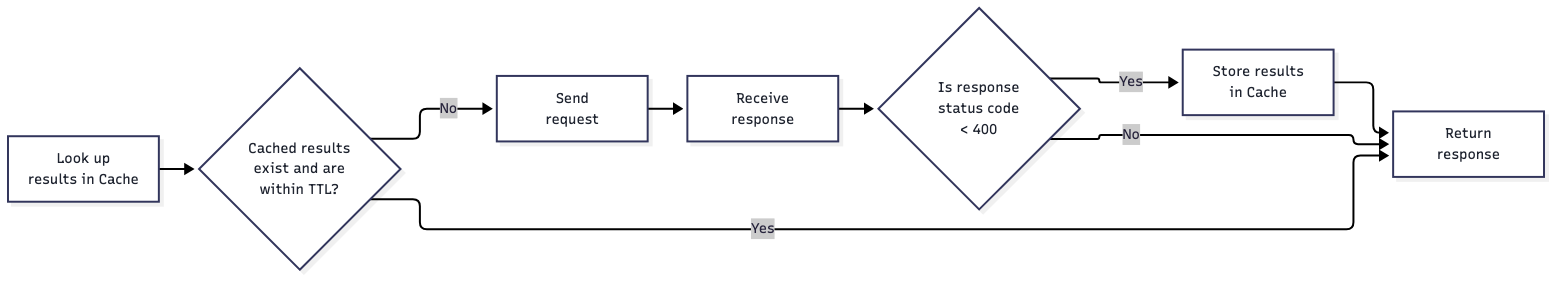
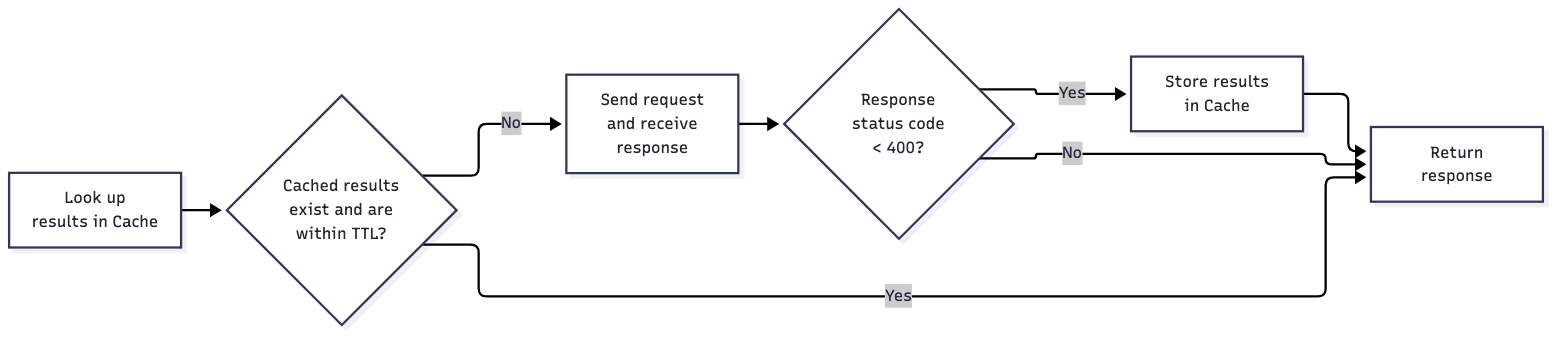
Spiros

diff --git a/docs/tex/chapters/ch4-implementation-evaluation.tex b/docs/tex/chapters/ch4-implementation-evaluation.tex
@@ -53,7 +53,8 @@ The backend communicates with the external data sources to gather information, a
 
 \subsubsection{Backend} \label{sec:backend-layers}
 
-\snote{The backend consists of services, ... described as follows.}
+The backend is structured in layers of data flow separation.
+The layers and components are introduced below. \snote{The backend consists of services, ... described as follows.} \enote{done}
 
 \snote{See also what I have changed.}
 
@@ -222,8 +223,7 @@ Figure~\ref{fig:database-er} shows the database tables and the relationships bet
 In the conceptual model, a publication is identified by its title, year and authors, and an author by name.
 The implementation uses the identifiers assigned by each provider: \textsf{pubId} and \textsf{authorId}.
 Names and titles can be ambiguous, and spelling differences do not necessarily mean that two records refer to different entities.
-All primary keys are composite and include the provider identifier.
-This is necessary to keep the data separate by provider.
+All primary keys are composite and include the provider identifier, to keep the data separate by provider.
 
 A \textsf{publication} record contains the title, year, citation count reported by the provider, and an external identifier, for instance a DOI, if available.
 An \textsf{author} record consists of the name and the affiliation, if available.
@@ -244,16 +244,14 @@ When an identifier is missing, the respective connector uses the normalized name
 \subsection{Storage and caching} \label{sec:storage-caching}
 
 \textsf{SQLite} was used in the system for the simplicity of its setup.
-It does not require a separate server, instead it runs within the backend process and stores the database in a single file.
-Schema changes also live in the codebase: they are defined as migrations and applied at runtime, every time the database is opened by the backend process.
+It does not require a separate server, instead the database file (it is a single file) is opened directly by the backend server process, all updates and changes are stored in it, and it is closed when the server shuts down and closes the database connection.
 
-The schema is only defined in code, in a single file describing every table.
-When the schema changes, the ORM compares it with the previous version and generates code representing the migration.
+The database schema is only defined in the code, in a single file describing every table, index, and column relationship.
+When the schema changes, the ORM compares it with the previous version and generates code representing the migration, as part of the backend build pipeline.
 A migration is a file with SQL statements needed to change the current database schema to the new schema.
-Migrations are kept in the codebase and are checked into the version control system.
+Migrations are kept in the codebase too, and are checked into the version control system.
 Every time the backend starts up and opens the database, it applies the migrations that have not been applied yet.
 Using this approach, the database schema always starts from the initial empty state, it then grows, and eventually evolves into the final version of the schema needed by the application.
-By keeping the database schema in the repository, the domain model changes can be associated with the current application model, to keep the models synchronized.
 
 The system largely depends on externally sourced data, subject to the provider limitations and the latency of network access.
 Publications, authors, contributions and citations are treated as immutable in nature.
@@ -276,11 +274,11 @@ The citation graph is decomposed and stored as separate entities in the tables
 The citation graph described in Section~\ref{sec:user-interface} represents the citations graph visually.
 
 After collecting the data, the backend saves the publications, authors and their relationships, from which the graph can be reconstructed without network requests to external providers.
-Classification labels depend on the choice of author (the same citation can be \textsf{direct} for one author and a \textsf{co-author self-citation} for another) and are calculated at runtime, when the graph is loaded. 
+Classification labels depend on the choice of author (the same citation can be \textsf{direct} for one author and a \textsf{co-author self-citation} for another) and are calculated at runtime, when the graph is loaded.
 Figure~\ref{fig:classification-example} shows the classification of the same citation for different authors, involved in either or both of the papers.
 
 As an example, let us consider the publications discussed in Chapter~\ref{c1:intro}.
-\scor{[KGMP2007]~\cite{Kalnis2007} by Kalnis, Ghinita, Mouratidis and Papadias cites [GPK2007]~\cite{Ghinita2007} by Ghinita, Kalnis and Skiadopoulos.}{Publication~\cite{Kalnis2007} by Kalnis, Ghinita, Mouratidis and Papadias cites  publication~\cite{Ghinita2007} by Ghinita, Kalnis and Skiadopoulos.}
+Publication~\cite{Kalnis2007} by Kalnis, Ghinita, Mouratidis and Papadias cites publication~\cite{Ghinita2007} by Ghinita, Kalnis and Skiadopoulos.
 
 
 The citation classification changes depending on who is the author under analysis.
@@ -295,7 +293,7 @@ As other authors of the cited paper also appear on the citing paper, the classif
     \label{fig:classification-example}
 \end{figure}
 
-Figure~\ref{fig:cache-flowchart-diagram} illustrates the data flow inside the cache mechanism. 
+Figure~\ref{fig:cache-flowchart-diagram} illustrates the data flow inside the cache mechanism.
 All provider connectors use the same HTTP client implementation, with caching handled internally.
 Before sending a request, the client looks for a stored response using the request URL as the key.
 The cache key enforces the order of the query parameters alphabetically, to provide a stable key, regardless of the parameter order in the original request URL.
@@ -304,8 +302,8 @@ Each cached record includes the date it was received, used to calculate when the
 
 \begin{figure}[tb]
     \centering
-    \includegraphics[scale=.3]{include/fig-cache-flowchart-diagram}
-    \caption{Cache request data flow}  
+    \includegraphics[scale=.27]{include/fig-cache-flowchart-diagram}
+    \caption{Cache request data flow}
     \label{fig:cache-flowchart-diagram}
 \end{figure}
 
@@ -321,10 +319,10 @@ If the citation graph exists, it is returned as a raw dataset in JSON format, an
 The UI renders results, including an option to update the results, bypassing the previously stored graph and cache.
 If the citation graph does not exist, or the user has requested to update the results, the backend receives a request to fetch the full graph.
 
-\snote{it goes "whether ... or not".  If you do not have "or not" use "if"}
+\snote{it goes "whether ... or not".  If you do not have "or not" use "if"}\enote{noted}
 
 Having received a request to fetch the full graph from a provider, the backend creates a new job (as an in-memory object) and stores it in the database.
-The job is initially placed in the \scor{state \textsf{running}}{\textsf{running} state}, which is the only non-final state.
+The job is initially placed in the \textsf{running} state, which is the only non-final state.
 The backend immediately responds with the job object, including the identifier.
 With the identifier at hand, the client starts to poll the job status, until it reaches one of the final states, namely, \textsf{done}, \textsf{error}, or \textsf{interrupted}.
 
@@ -336,20 +334,21 @@ The successful path is as follows:
     \item The \textsf{Metrics service}, which orchestrates the flow, hands it over to the \textsf{Author service}.
     \item The \textsf{Author service} requests the list of papers for the selected author identifier, and paginates to reach the end of the response list.
     \item Having reached the end of the list, the \textsf{Author service} calls the \textsf{Publication service} to fetch the citations, for each of the gathered publications
-    \item The \textsf{Publication service} requests the list of citations, and extracts the authors from each item of the list. In practice, the requests for all publications are sent at once, and the provider request queue paces them to the number of requests per second that the provider allows.
+    \item The \textsf{Publication service} requests the list of citations, and extracts the authors from each item of the list.
+    In practice, the requests for all publications are queued in bulk, at the same time, and the per-provider request queue dispatches them sequentially, limiting concurrent requests to the number of requests per second that the provider allows.
     \item Having gathered details of each of the citing publications, the control returns to the \textsf{Metrics service} to aggregate final results.
-    \item The \textsf{Classification service} applies the classification algorithm to each of the citing publications against the currently selected author, and finally.
+    \item The \textsf{Classification service} applies the classification algorithm to each of the citing publications against the author under analysis.
     \item The \textsf{Metrics service} collates the results into a single nested structure, stores it in the database, and changes the job status to \textsf{done}.
 \end{itemize}
 
-If the citations of a publication cannot be retrieved, for instance due to a network error, this publication is skipped, but the job still completes.
-The result mentions how many publication responses were successful and how many failed.
+If the citations of a publication cannot be retrieved, for instance due to a network error, this publication is skipped.
+The job will still complete, and the result will mention how many responses were successful and how many failed.
 
 Once the job has been updated with the final result, the next time the client requests the job, it will receive the result and will be able to fetch it and render in the UI.
 
 \begin{figure}[tb]
     \centering
-    \includegraphics[scale=.3]{include/fig-classification-flowchart-diagram}
+    \includegraphics[scale=.27]{include/fig-classification-flowchart-diagram}
     \caption{Citation graph construction data flow}
     \label{fig:classification-flowchart-diagram}
 \end{figure}
@@ -378,7 +377,7 @@ The page supports deep-linking to the search form with the name prefilled, when 
 
 Figure~\ref{fig:ui-search-results} shows the search results page, displayed after the search form has been submitted, and the response has been returned.
 
-Searching by name can return multiple results, matching the name, for each of the supported providers; the figure shows the list of results returned for ``skiadopoulos''.
+Searching by name can return multiple results, matching the name, for each of the supported providers; the figure shows the list of results returned for \texttt{skiadopoulos}.
 
 \begin{figure}[tb]
     \centering
@@ -837,7 +836,7 @@ WITH indirect_citations AS (
     \end{tabular}
 \end{center}
 
-The \emph{co-author} citations are those where the selected author is not an author of a citing publication, but the citing and cited publications share at least one other author.
+The \emph{co-author} citations are those where the citing and cited publications share at least one other author, besides the selected author.
 
 \begin{quote}
     \begin{vercode}
@@ -1039,7 +1038,7 @@ Table~\ref{tab:provider-comparison} contains the publication and citation counts
 \end{table}
 
 All three providers include papers for which no citations were found: 32/117 in \textsf{OpenAlex}, 83/187 in \textsf{Semantic Scholar} and 71/157 in \textsf{Google Scholar} (mainly these are duplicates and alternative versions of cited papers)..
-The most cited papers of the selected author are ``Conceptual modeling for ETL processes'' and ``PRIVE: anonymous location-based queries in distributed mobile systems'', across all sources.
+The most cited papers of the selected author are \emph{Conceptual modeling for ETL processes} and \emph{PRIVE: anonymous location-based queries in distributed mobile systems}, across all sources.
 
 In broad terms, the \textsf{OpenAlex} and \textsf{Semantic Scholar} numbers are the closest.
 \textsf{Semantic Scholar} returned more papers and more citations than \textsf{OpenAlex} in absolute numbers, but the proportions are similar, as shown in Table~\ref{tab:provider-comparison}.
@@ -1056,12 +1055,12 @@ The remaining 13 citations alternate between \textsf{co-author} and \textsf{exte
 \end{description}
 
 For \textsf{Google Scholar} the classification relies on matching authors by plain text names, as described in Section~\ref{sec:data}.
-This results in citations classified as \textsf{direct} when the selected author is on the citing publication; otherwise the citation is classified as \textsf{external}.
+This results in citations classified as \textsf{direct} when the author under analysis is on the citing publication; otherwise the citation is classified as \textsf{external}.
 The citing papers do not always include the profile identifier, resulting in even fewer matches for \textsf{direct}.
 
 The following examples demonstrate the differences.
 
-The first example is the citation discussed in Chapter~\ref{c1:intro}, where {[KGMP2007]}~\cite{Kalnis2007} cites {[GPK2007]}~\cite{Ghinita2007}.
+The first example is the citation discussed in Chapter~\ref{c1:intro}, where publication~\cite{Kalnis2007} cites publication~\cite{Ghinita2007}.
 \textsf{OpenAlex} and \textsf{Semantic Scholar} return author identities for both papers, so for Spiros Skiadopoulos the citation is classified as \textsf{co-author}.
 For \textsf{Google Scholar} data, the same citation is classified as \textsf{external}.
 Listing~\ref{lst:example-coauthor} shows the parsed data from the responses.
@@ -1093,8 +1092,8 @@ Listing~\ref{lst:example-coauthor} shows the parsed data from the responses.
 \end{lstlisting}
 
 The second example demonstrates provider errors resulting in skewed citation counts.
-\textsf{OpenAlex} returns the paper {[Terrovitis2004]}~\cite{Terrovitis2004} as citing itself, which counts as a \textsf{direct} citation.
-At the same time, \textsf{Google Scholar} returns ``S Skiadopoulost'' as an author for the same work, with nothing else matching this name, and the name matching no profile.
+\textsf{OpenAlex} returns the paper~\cite{Terrovitis2004} as citing itself, which counts as a \textsf{direct} citation.
+At the same time, \textsf{Google Scholar} returns \texttt{S Skiadopoulost} as an author for the same work, with nothing else matching this name, and the name matching no profile.
 Listing~\ref{lst:example-errors} includes both records.
 
 \begin{lstlisting}[float=tb, basicstyle=\footnotesize\ttfamily, caption={Errors in the responses of \textsf{OpenAlex} and \textsf{Google Scholar}}, label={lst:example-errors}]

diff --git a/docs/tex/chapters/ch2-related-work.tex b/docs/tex/chapters/ch2-related-work.tex
@@ -3,7 +3,7 @@
 
 \chapter{Related work and systems} \label{c2:related-work}
 
-The analysis of scientific citations has been an active area of research within the field of bibliometrics~\cite{Glnzel2003BIBLIOMETRICSAA} \snote{add some refs}.
+The analysis of scientific citations has been an active area of research within the field of bibliometrics~\cite{Glnzel2003BIBLIOMETRICSAA} \snote{add some refs}\enote{done}.
 A number of metrics, data sources, and analytical approaches have been developed to assess the impact of publications and authors~\cite{Hirsch2005, Boyack2005} \snote{add some refs}.
 
 This chapter presents an overview of the fundamental concepts and existing systems relevant to citation analysis.
